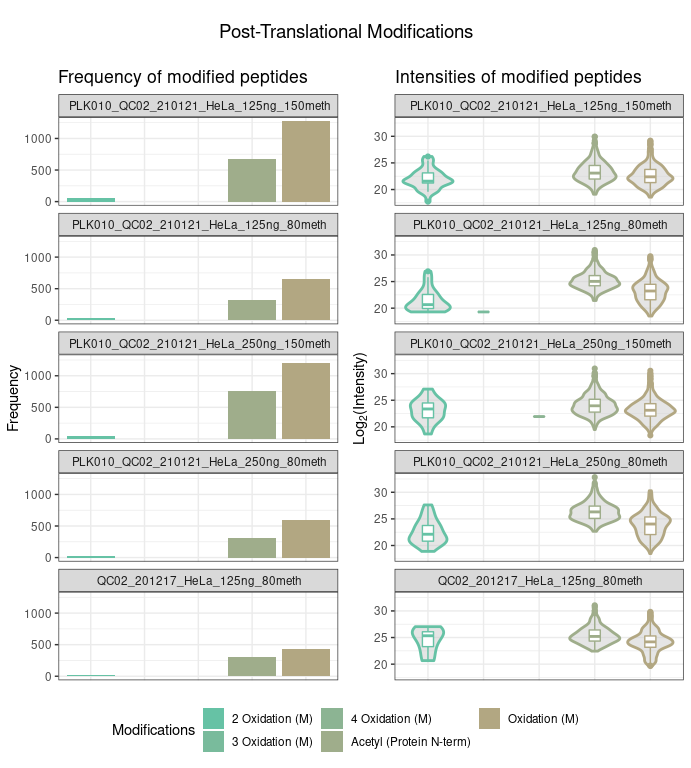
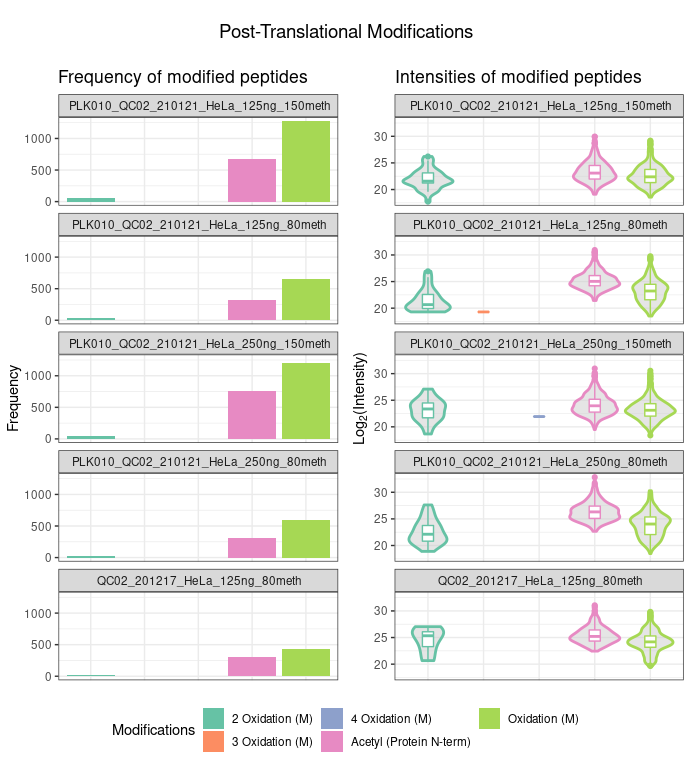
color fixed ptm

diff --git a/README.md b/README.md
@@ -196,7 +196,7 @@ PlotAcquisitionCycle(msScans)
 <img src="man/figures/README-PlotAcquisition-1.png" width="100%" /><img src="man/figures/README-PlotAcquisition-2.png" width="100%" />
 
 ``` r
-PlotPTM(modificationSpecificPeptides, peptides_modified = 1, plot_unmodified_peptides = FALSE)
+PlotPTM(modificationSpecificPeptides, peptides_modified = 1, plot_unmodified_peptides = FALSE, palette = 'Set2')
 ```
 
 <img src="man/figures/README-PTM-1.png" width="100%" /><img src="man/figures/README-PTM-2.png" width="100%" />
